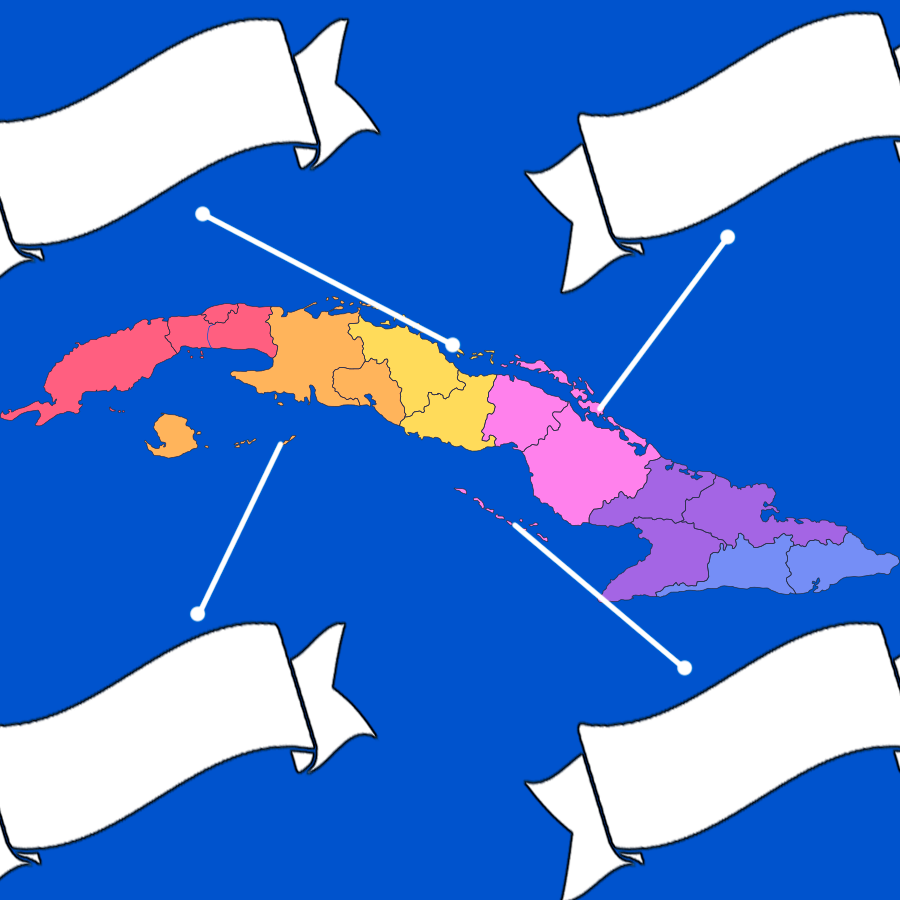
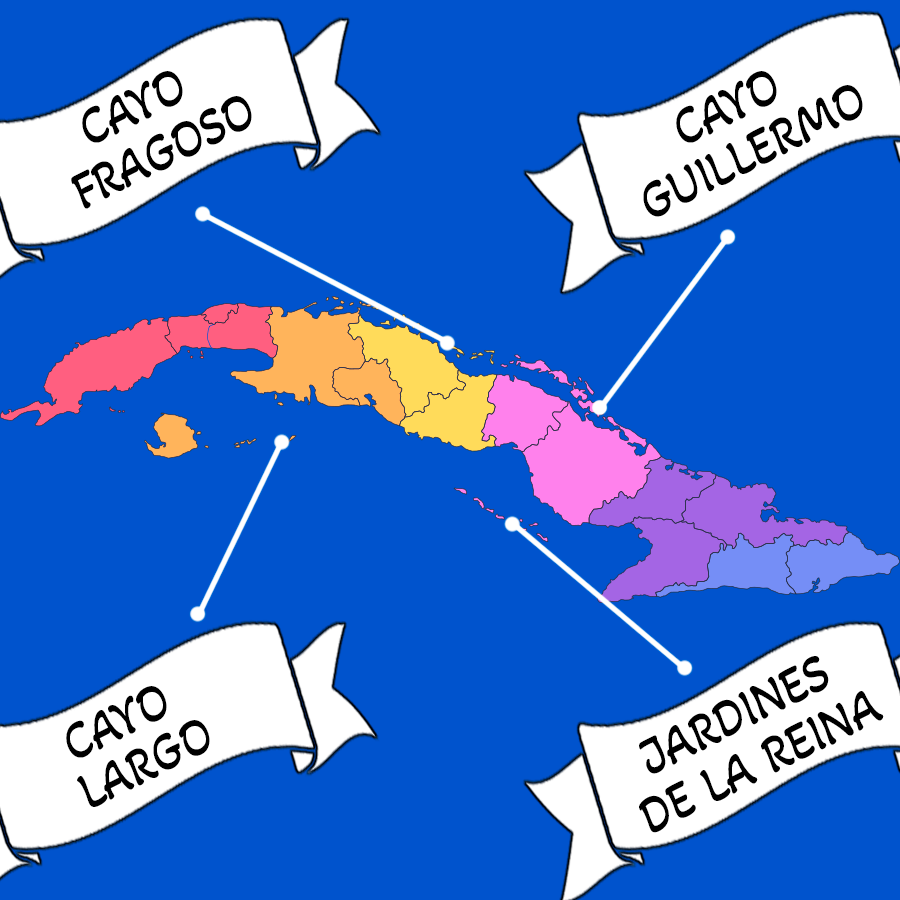
Geografia: +LV 11

diff --git a/lib/src/app/b_domain/levels/dnd_level_6_geografia.dart b/lib/src/app/b_domain/levels/dnd_level_6_geografia.dart
@@ -582,25 +582,64 @@ class DnDLevelGeografia {
           ),
           DnDSubLevelItemDomain.singlePosition(
             id: 2,
-            urlImage: DnDLevelsAssets.GEOGRAFIA_L11_ITEM_3,
+            urlImage: DnDLevelsAssets.GEOGRAFIA_L11_ITEM_2,
             rowPosition: 0,
             columnPosition: 2,
             hint: "Cayo Guillermo se encuentra al norte de Camagüey.",
           ),
           DnDSubLevelItemDomain.singlePosition(
             id: 3,
-            urlImage: DnDLevelsAssets.GEOGRAFIA_L11_ITEM_4,
+            urlImage: DnDLevelsAssets.GEOGRAFIA_L11_ITEM_3,
             rowPosition: 2,
             columnPosition: 0,
             hint: "Cayo Largo se encuentra al sur de Matanzas.",
           ),
           DnDSubLevelItemDomain.singlePosition(
             id: 4,
-            urlImage: DnDLevelsAssets.GEOGRAFIA_L11_ITEM_5,
+            urlImage: DnDLevelsAssets.GEOGRAFIA_L11_ITEM_4,
             rowPosition: 2,
             columnPosition: 2,
             hint:
                 "Los Cayos: Jardines del Rey se encuentran al sur de la gran parte del centro de la Isla.",
+          ),
+        ],
+      ),
+      DnDSubLevelDomain(
+        id: 12,
+        urlImage: DnDLevelsAssets.GEOGRAFIA_L12_BG,
+        rows: 3,
+        columns: 3,
+        items: [
+          DnDSubLevelItemDomain.singlePosition(
+            id: 1,
+            urlImage: DnDLevelsAssets.GEOGRAFIA_L12_ITEM_1,
+            rowPosition: 0,
+            columnPosition: 0,
+            hint:
+                "La Cueva La Barca se encuentra en la Península de Guanahacabibes, Pinar del Río.",
+          ),
+          DnDSubLevelItemDomain.singlePosition(
+            id: 2,
+            urlImage: DnDLevelsAssets.GEOGRAFIA_L12_ITEM_2,
+            rowPosition: 0,
+            columnPosition: 2,
+            hint:
+                "La Cueva del Indio se encuentra en la Sierra de Cubitas, Camagüey.",
+          ),
+          DnDSubLevelItemDomain.singlePosition(
+            id: 3,
+            urlImage: DnDLevelsAssets.GEOGRAFIA_L12_ITEM_3,
+            rowPosition: 2,
+            columnPosition: 0,
+            hint:
+                "La Cueva del Agua se encuentra en la Sierra de Casas, Isla de la Juventud.",
+          ),
+          DnDSubLevelItemDomain.singlePosition(
+            id: 4,
+            urlImage: DnDLevelsAssets.GEOGRAFIA_L12_ITEM_4,
+            rowPosition: 2,
+            columnPosition: 2,
+            hint: "La Cueva Cativar se encuentra en Guamá, Santiago de Cuba.",
           ),
         ],
       ),

diff --git a/lib/assets/levels/dnd_levels_assets.dart b/lib/assets/levels/dnd_levels_assets.dart
@@ -375,7 +375,13 @@ class DnDLevelsAssets {
   static const String GEOGRAFIA_L11_ITEM_2 = "$GEOGRAFIA_L11/2.png";
   static const String GEOGRAFIA_L11_ITEM_3 = "$GEOGRAFIA_L11/3.png";
   static const String GEOGRAFIA_L11_ITEM_4 = "$GEOGRAFIA_L11/4.png";
-  static const String GEOGRAFIA_L11_ITEM_5 = "$GEOGRAFIA_L11/5.png";
+  //LV11
+  static const String GEOGRAFIA_L12 = "$THEME_GEOGRAFIA/12";
+  static const String GEOGRAFIA_L12_BG = "$GEOGRAFIA_L12/bg.png";
+  static const String GEOGRAFIA_L12_ITEM_1 = "$GEOGRAFIA_L12/1.png";
+  static const String GEOGRAFIA_L12_ITEM_2 = "$GEOGRAFIA_L12/2.png";
+  static const String GEOGRAFIA_L12_ITEM_3 = "$GEOGRAFIA_L12/3.png";
+  static const String GEOGRAFIA_L12_ITEM_4 = "$GEOGRAFIA_L12/4.png";
   ////9 - Amimales////
   static const String THEME_ANIMALES = "$_assets/9_animales";
 
